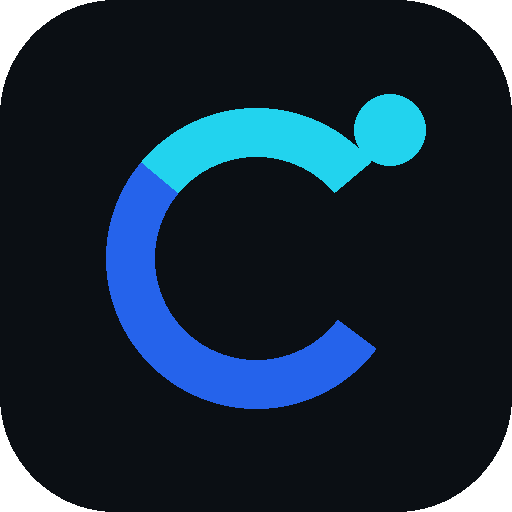
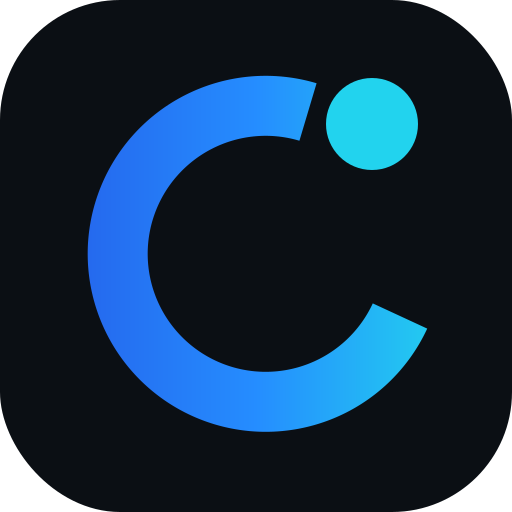
Atualização da identidade visual Órbita B

diff --git a/index.html b/index.html
@@ -8,18 +8,16 @@
   <link rel="icon" href="icons/favicon.svg" type="image/svg+xml" />
   <link rel="manifest" href="manifest.webmanifest" />
   <title>Órbita — Seu mundo. Em perspectiva.</title>
-  <link rel="stylesheet" href="styles.css" />
+  <link rel="preconnect" href="https://fonts.googleapis.com" />
+  <link rel="preconnect" href="https://fonts.gstatic.com" crossorigin />
+  <link rel="stylesheet" href="styles.css?v=3" />
 </head>
 <body>
   <div class="shell">
     <header class="topbar">
       <a class="brand" href="#hoje" aria-label="Órbita — início">
-        <svg class="brand-symbol" viewBox="0 0 64 64" aria-hidden="true" focusable="false">
-          <defs><linearGradient id="orbitalGradient" x1="0" y1="1" x2="1" y2="0"><stop offset="0" stop-color="#2563EB"/><stop offset="1" stop-color="#22D3EE"/></linearGradient></defs>
-          <path d="M48.4 12.4A24 24 0 1 0 55.5 31" fill="none" stroke="url(#orbitalGradient)" stroke-width="9.5" stroke-linecap="round" />
-          <circle cx="49" cy="11" r="7.8" fill="#22D3EE"/>
-        </svg>
-        <span>órbita<span class="period">.</span></span>
+        <svg class="brand-symbol" viewBox="0 0 100 100" aria-hidden="true" focusable="false"><defs><linearGradient id="orbitaMarkGradient" x1="0" y1="50" x2="100" y2="50" gradientUnits="userSpaceOnUse"><stop offset="0" stop-color="#2563EB"/><stop offset="0.50" stop-color="#258DFF"/><stop offset="1" stop-color="#22D3EE"/></linearGradient></defs><path d="M 63 14 A 37 37 0 1 0 86 65" fill="none" stroke="url(#orbitaMarkGradient)" stroke-width="15" stroke-linecap="butt"/><circle cx="79" cy="17" r="11.5" fill="#22D3EE"/></svg>
+        <span class="brand-wordmark">Órbita</span>
       </a>
       <div class="top-actions"><span class="demo-pill"><span class="demo-dot"></span> Piloto RSS 0.2</span><button class="circle-button theme-toggle" id="themeToggle" aria-label="Alternar modo de aparência" title="Alternar modo claro ou escuro"><svg class="moon-icon" viewBox="0 0 24 24" fill="none" stroke="currentColor" stroke-width="1.8" stroke-linecap="round"><path d="M20.5 14.5A8.5 8.5 0 0 1 9.5 3.5 8.5 8.5 0 1 0 20.5 14.5Z"/></svg></button></div>
     </header>

diff --git a/styles.css b/styles.css
@@ -6,3 +6,14 @@ body.dark{--paper:#0E1420;--surface:#172232;--text:#EEF4FA;--muted:#9DAEC3;--bor
 
 /* Piloto em tema escuro alinhado à identidade B. */
 .brand{letter-spacing:-1.3px}.story-footer .tag-bubble{max-width:80%;overflow:hidden;white-space:nowrap;text-overflow:ellipsis}.story-modal .modal-actions a.action{text-align:center;display:inline-flex;align-items:center;justify-content:center}.story-head{align-items:flex-start}.story-read{white-space:normal;text-align:right}.footer-note{opacity:.8}
+
+/* Órbita — identidade B v0.3. Wordmark, geometria e cores alinhados à marca. */
+.brand{font-family:var(--heading);display:inline-flex;align-items:center;gap:10px;font-weight:800;font-size:30px;letter-spacing:normal;white-space:nowrap;}
+.brand-symbol{width:40px;height:40px;flex:0 0 auto;overflow:visible;}
+.brand-wordmark{display:inline-block;font-family:'Plus Jakarta Sans',Inter,system-ui,sans-serif;font-size:inherit;font-weight:800;letter-spacing:-.072em;line-height:1;transform:translateY(-1px);}
+.topbar{background:#0B0F14;}
+.page-header h1{letter-spacing:-.047em;font-weight:800;}
+.hero h2,.section-top h2,.story-title{letter-spacing:-.035em;}
+.demo-dot{background:#22D3EE;}
+@media(max-width:760px){.brand{font-size:26px;gap:8px}.brand-symbol{width:34px;height:34px}.brand-wordmark{letter-spacing:-.068em}}
+@media(max-width:360px){.brand{font-size:24px}.brand-symbol{width:32px;height:32px}}

diff --git a/sw.js b/sw.js
@@ -1,5 +1,5 @@
-const CACHE='orbita-piloto-02';
-const ASSETS=['./','./index.html','./styles.css','./app.js','./manifest.webmanifest','./icons/icon-192.png','./icons/icon-512.png'];
+const CACHE='orbita-identidade-b-03';
+const ASSETS=['./','./index.html','./styles.css?v=3','./app.js','./manifest.webmanifest','./icons/favicon.svg','./icons/icon-192.png','./icons/icon-512.png'];
 self.addEventListener('install',e=>e.waitUntil(caches.open(CACHE).then(c=>c.addAll(ASSETS)).then(()=>self.skipWaiting())));
 self.addEventListener('activate',e=>e.waitUntil(caches.keys().then(k=>Promise.all(k.filter(x=>x!==CACHE).map(x=>caches.delete(x)))).then(()=>self.clients.claim())));
 self.addEventListener('fetch',e=>{
